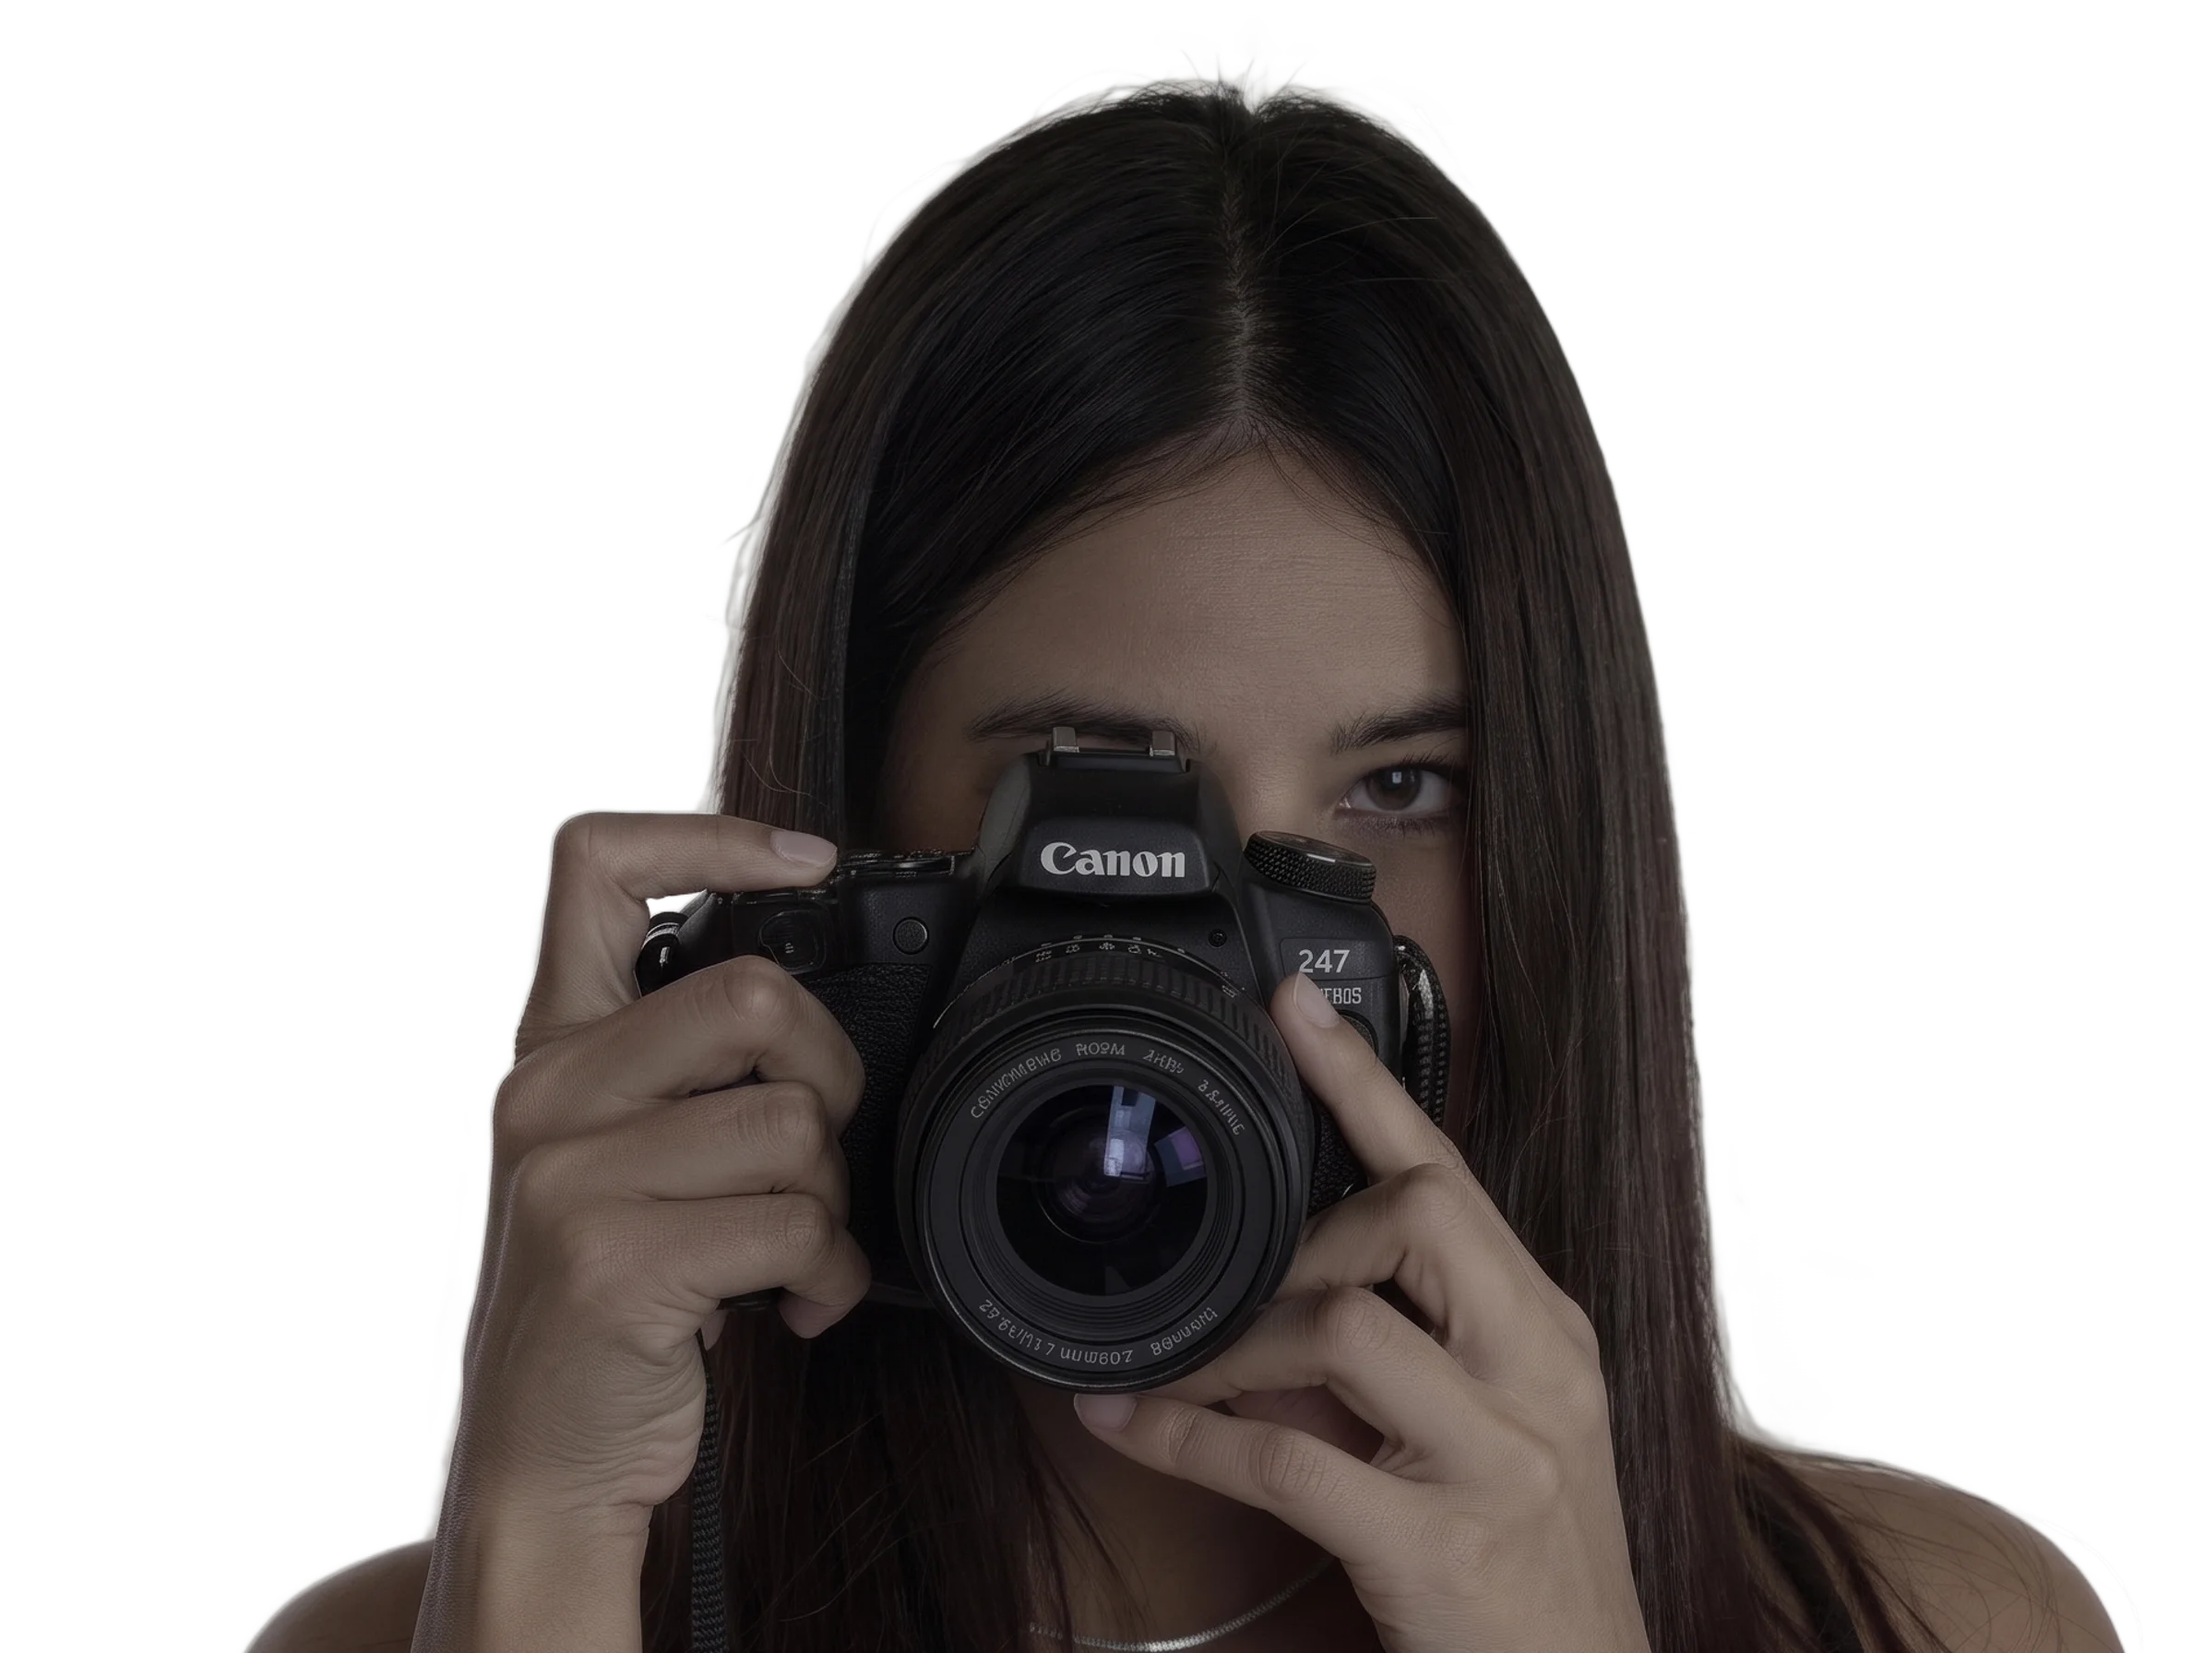
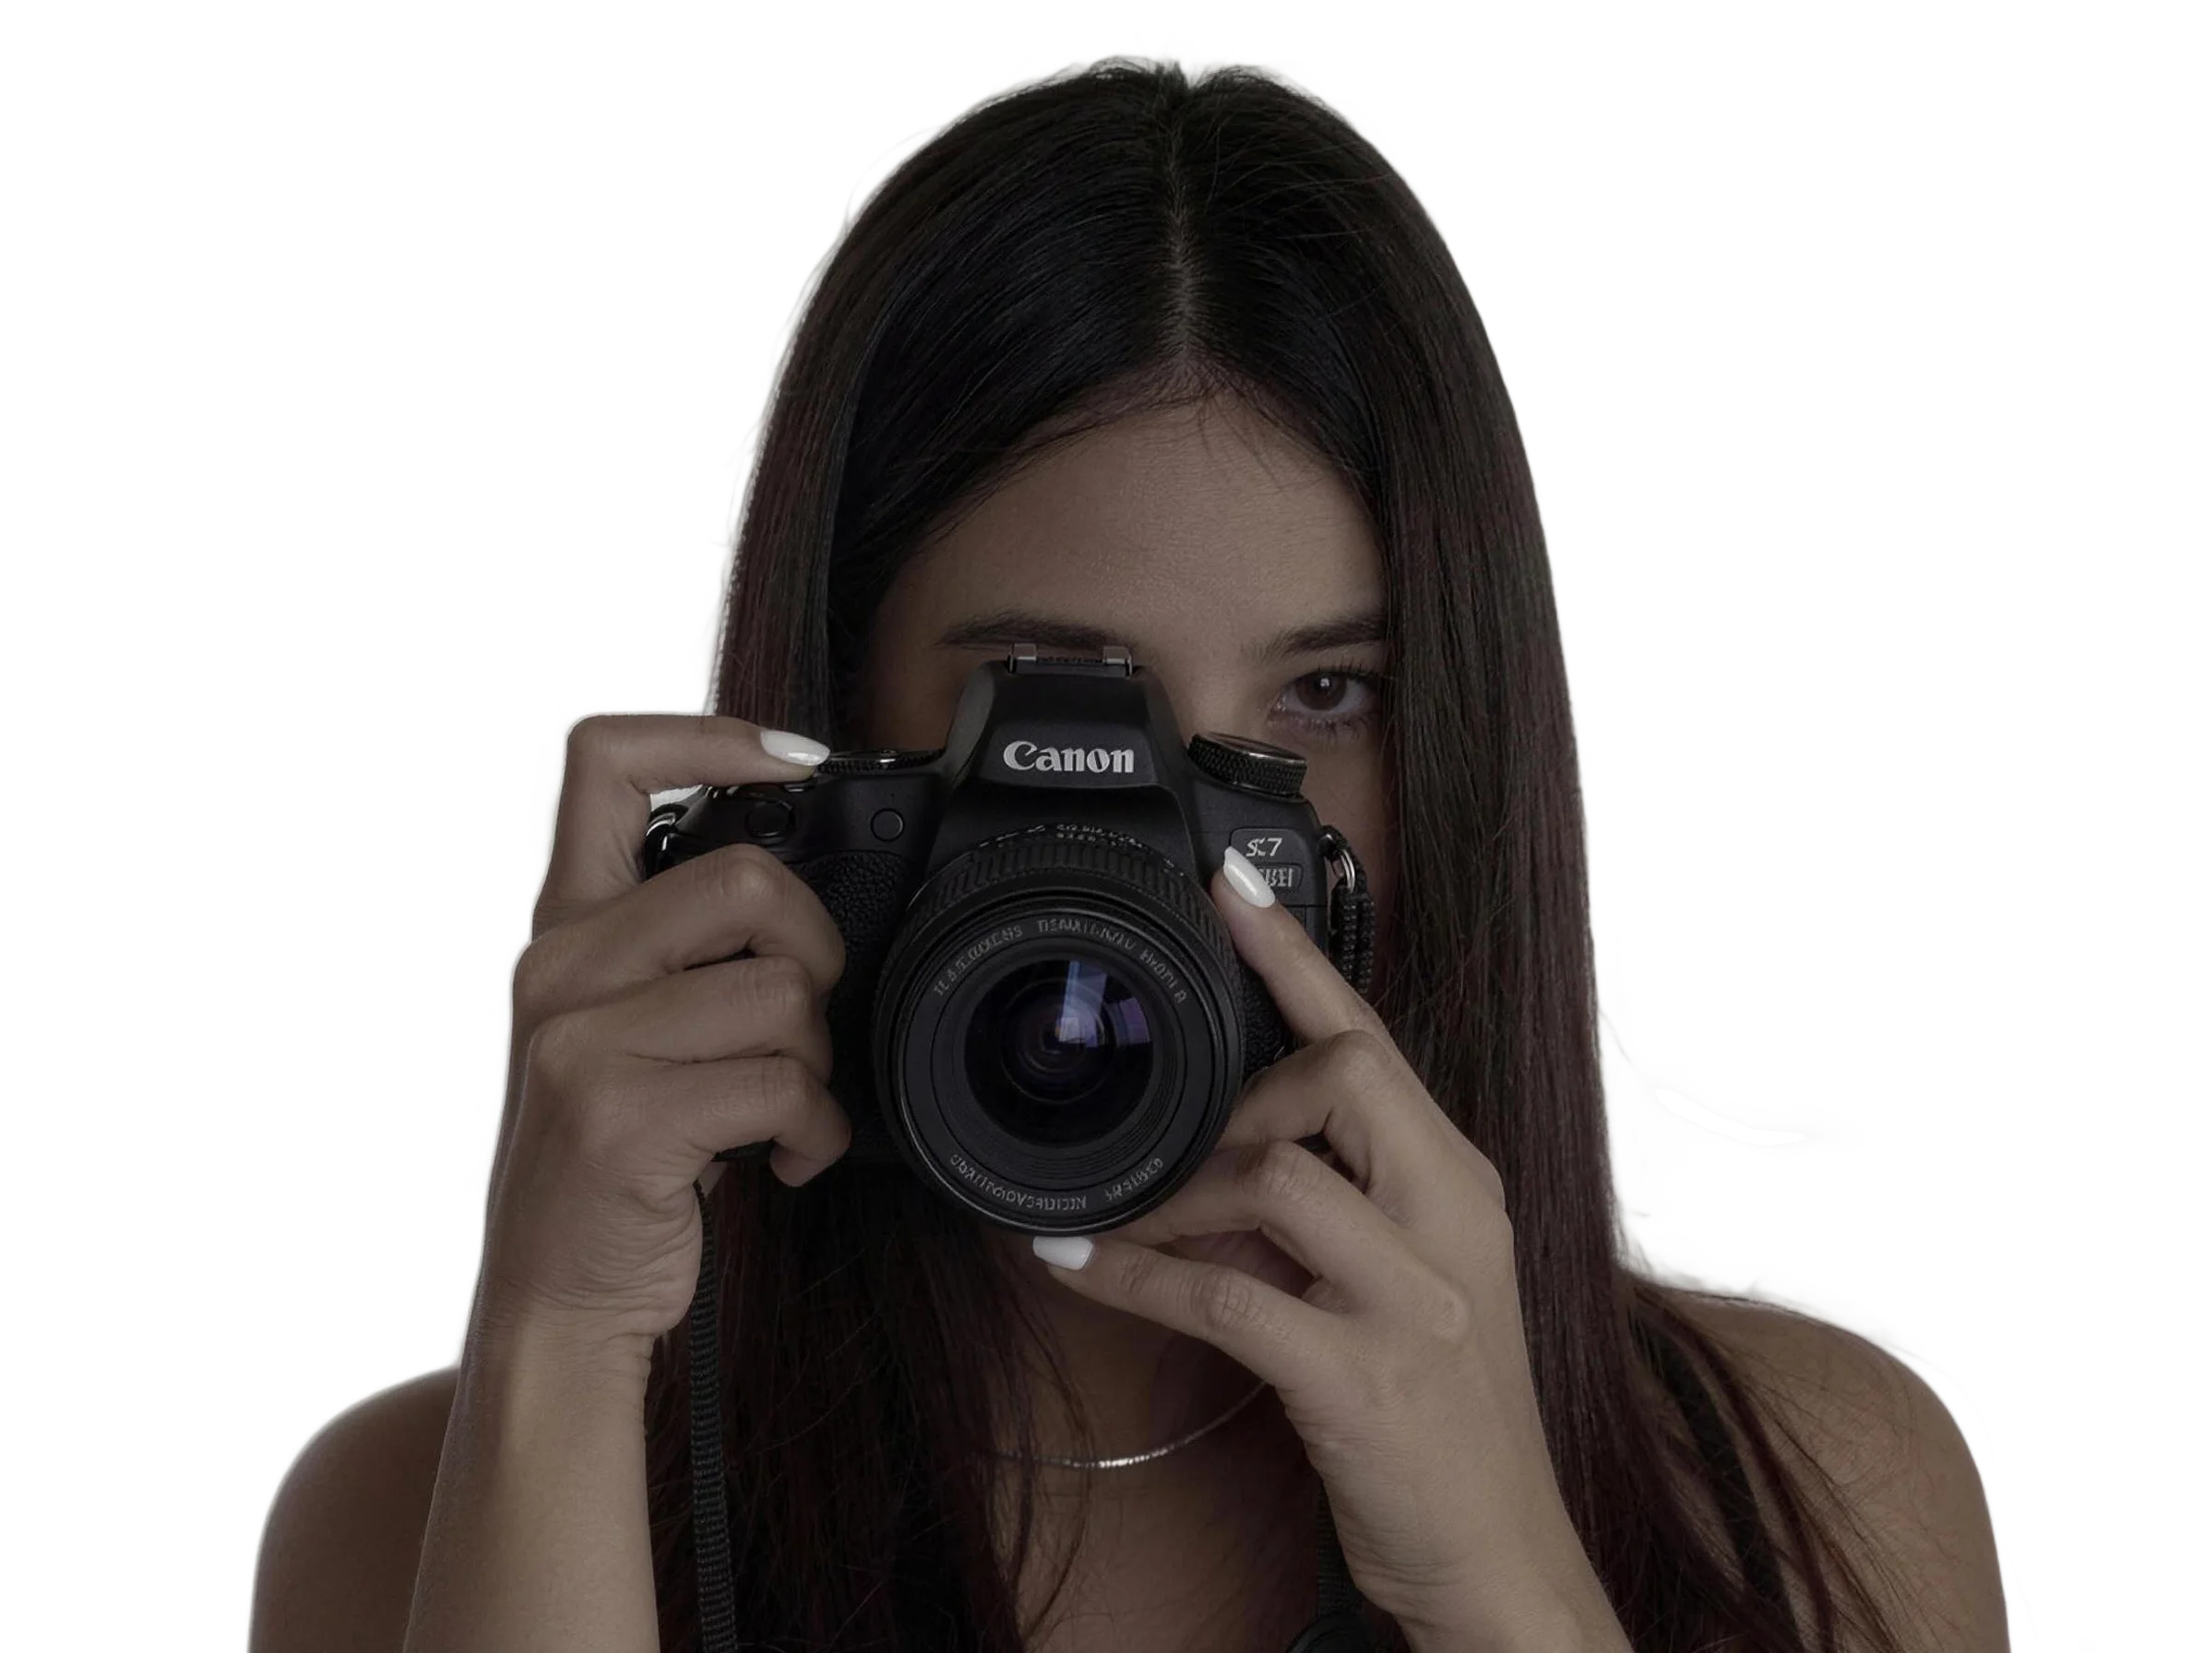
hero image improvment

Changed region(s): [[0.0929, 0.0312, 0.9598, 1.0]]

diff --git a/src/components/work/WorkGrid.tsx b/src/components/work/WorkGrid.tsx
@@ -117,7 +117,7 @@ const WORK_ITEMS: WorkItem[] = [
     coverPosition: 'center',
     coverOverlay: 'rgba(242,177,177,0.18)',
     description:
-      "אנחנו בונים לעסק מנוע צמיחה דיגיטלי המבוסס על תוכן אורגני ויראלי, ניתוח אלגוריתמים ומערך הבאת לידים חכם. השירות כולל ניהול שוטף וימי צילום ברמה הכי גבוהה בשוק, אופטימיזציה לביצועים ואופציה לקידום ממומן ממוקד, קריאייטיב מדויק והכי חשוב ניצור סביבת עבודה שרק תצמח — הכל כדי להפוך צפיות לתוצאות עסקיות בשטח.",
+      "אנחנו בונים לעסק מנוע צמיחה דיגיטלי המבוסס על תוכן אורגני ויראלי, ניתוח אלגוריתמים ומערך הבאת לידים חכם. השירות כולל ניהול שוטף וימי צילום ברמה הכי גבוהה בשוק, אופטימיזציה לביצועים ואופציה לקידום ממומן ממוקד, קריאייטיב מדויק והכי חשוב ניצור סביבת עבודה שרק תצמח. הכל כדי להפוך צפיות לתוצאות עסקיות בשטח.",
     services: ['הפקת וידאו תדמית', 'צילום מוצר', 'סטוריז ורילס', 'קידום ממומן'],
   },
   {
@@ -138,7 +138,7 @@ const WORK_ITEMS: WorkItem[] = [
     title: 'המלצות ו-UGC',
     coverAsset: '/category/reco-cover.webp',
     description:
-      'הכוח של המלצה אמיתית: תוכן גולשים (UGC) והמלצות מצולמות של לקוחות מרוצים הם הכלי החזק ביותר לבניית אמון. אנחנו מפיקים סרטוני המלצות אותנטיים וקליפים בסגנון UGC שמרגישים אמיתיים, מדברים בגובה העיניים — וגורמים ללקוחות הבאים להגיד כן.',
+      'הכוח של המלצה אמיתית: תוכן גולשים (UGC) והמלצות מצולמות של לקוחות מרוצים הם הכלי החזק ביותר לבניית אמון. אנחנו מפיקים סרטוני המלצות אותנטיים וקליפים בסגנון UGC שמרגישים אמיתיים, מדברים בגובה העיניים, וגורמים ללקוחות הבאים להגיד כן.',
     services: ['סרטוני המלצות', 'תוכן UGC', 'עדויות לקוחות', 'קריאייטיב'],
   },
 ]
@@ -158,14 +158,14 @@ const FEATURED: FeaturedCard[] = [
     itemId: 'weddings',
     n: '01',
     title: 'Weddings and events',
-    desc: 'סטוריז חיים, רילס וסרטוני תקציר — ישר מתוך היום הגדול.',
+    desc: 'סטוריז חיים, רילס וסרטוני תקציר, ישר מתוך היום הגדול.',
     chip: 'live stories',
   },
   {
     itemId: 'photoshoot',
     n: '02',
     title: 'Photoshoot Days',
-    desc: 'יום צילום אחד — בנק תוכן שלם של סרטונים ותמונות.',
+    desc: 'יום צילום אחד: בנק תוכן שלם של סרטונים ותמונות.',
     chip: 'shoot day',
   },
   {
@@ -179,7 +179,7 @@ const FEATURED: FeaturedCard[] = [
     itemId: 'management',
     n: '04',
     title: 'Social Management',
-    desc: 'אסטרטגיה, לוח תוכן וצמיחה — מנוע דיגיטלי לעסק שלכם.',
+    desc: 'אסטרטגיה, לוח תוכן וצמיחה: מנוע דיגיטלי לעסק שלכם.',
     chip: 'the feed',
   },
 ]
